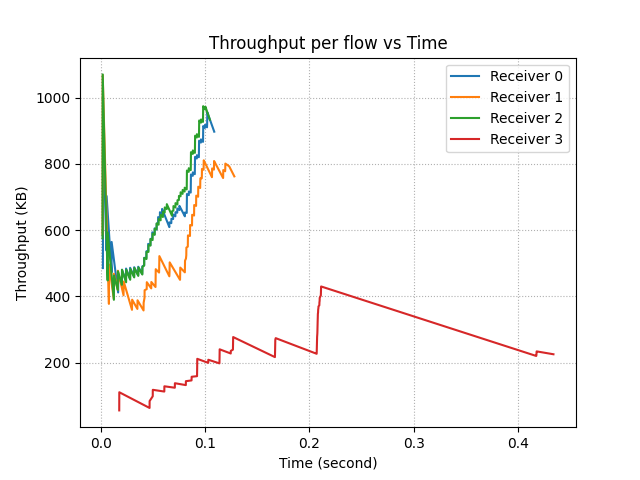
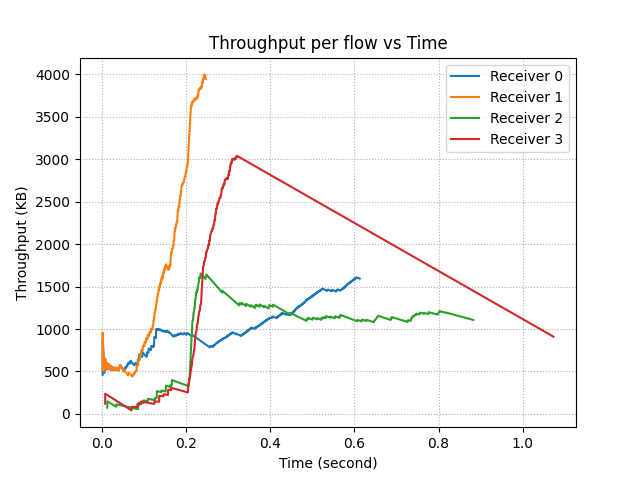
Added descriptions to the evaluation section.

diff --git a/script.py b/script.py
@@ -19,12 +19,12 @@ def q1 ():
   call (["rm", "logger/log_window", "logger/log_tput"])
   call (["netsim", "--bandwidth", "10000", "--latency", "1", "--drop", "0", "--limit", "50"])
   call (["congestiontest", "--size", "large"])
-  #call (["netsim", "--bandwidth", "10000", "--latency", "1", "--drop", "0", "--limit", "10"])
-  #call (["congestiontest", "--size", "large"])
+  call (["netsim", "--bandwidth", "10000", "--latency", "1", "--drop", "0", "--limit", "10"])
+  call (["congestiontest", "--size", "large"])
 
   call (["logger/graph.py", "logger/log_window", "logger/log_tput"])
-  #call (["mv", "output_window_size.png", "logger/config4_buffer_output_window_size.png"])
-  #call (["mv", "output_tput.png", "logger/config4_buffer_output_tput.png"])
+  call (["mv", "output_window_size.png", "logger/config4_buffer_output_window_size.png"])
+  call (["mv", "output_tput.png", "logger/config4_buffer_output_tput.png"])
 
 def q2 ():
   call (["rm", "logger/log_window", "logger/log_tput"])
@@ -53,10 +53,10 @@ def q3 ():
 def q4 ():
   call (["rm", "logger/log_window", "logger/log_tput"])
   call (["netsim", "--bandwidth", "10000", "--latency", "1", "--drop", "0", "--limit", "50"])
-  run (["congestiontest", "--size", "large"])
-  run (["congestiontest", "--size", "large"])
-  run (["congestiontest", "--size", "large"])
-  run (["congestiontest", "--size", "large"])
+  run (["congestiontest", "--size", "huge"])
+  run (["congestiontest", "--size", "huge"])
+  run (["congestiontest", "--size", "huge"])
+  run (["congestiontest", "--size", "huge"])
   sleep (5)
   call (["logger/graph.py", "logger/log_window", "logger/log_tput"])
 
@@ -113,9 +113,9 @@ def main (num):
   #q1 ()
   #q2 ()
   #q3 ()
-  #q4 ()
+  q4 ()
   #q5_1 ()
-  q5_2 ()
+  #q5_2 ()
 
 if __name__ == '__main__':
   if (len (sys.argv) < 2):

diff --git a/cca_evaluation.md b/cca_evaluation.md
@@ -9,61 +9,58 @@ In CP2, we implemented a reliable transport protocol with a fixed window size. H
 To remedy this, we have implemented CCA to adjust window size based on the available bandwidth of the bottleneck link and other senders of the network. 
 
 ## 2. AIMD
-We assumed that a packet gets lost when there is congestion in the network. We considered two cases for lost packet: (1) recevied duplicated ACKs, or (2) timeout occured. Like TCP, we have used AIMD to be conservative for increasing window size, but aggresive for decreaseing window size when cogestion is detected.
+We assumed that a packet gets lost when there is congestion in the network. We considered two cases for lost packets: (1) received duplicated ACKs, or (2) a timeout occurred. Like TCP, we have used AIMD to be conservative for increasing window size, but aggressive for decreasing window size when congestion is detected.
 
     W = W + 1
     if Dup ACKs or timeout
       W = W / 2
 
 ## 3. Slow start
-Like TCP, we implemented the sender to starts with the slow start mode, exponential increase in window size instead of linear increase. Once the sender detects the first packet loss, then it enters the congestion avoidance mode.
+Like TCP, we implemented the sender to start with the slow start mode, exponential increase in window size instead of a linear increase. Once the sender detects the first packet loss, then it enters the congestion avoidance mode.
 
-## 4. Evalution of scenario 4: Data center 
-The following parameters were used to simulate data center: 1ms latency, 10Gbps bandwidth, 0% loss, 50Mb queue. We have used Large file (100KB) for all tests.
+## 4. Evaluation of scenario 4: Datacenter 
+The following parameters were used to simulate the data center: 1ms latency, 10Gbps bandwidth, 0% loss, and 50Mb queue. We have used a large file (100KB) for all tests except the test for multiple sender-receiver pairs which uses a huge file (1MB).
 
 ### - 50Mb vs 10 Mb buffer 
-The sender 0 was tested with 10Mb buffer whereas sender 1 was tested with 50Mb (Figure 1 and 2).
+Sender 0 was tested with a 10Mb buffer whereas sender 1 was tested with 50Mb (Figures 1 and 2). Since there cannot be an issue with overflowing the buffer with a 100KB file, we expected no difference in performance. As expected, the buffer size had minimal impact on the performance in this case.  
 
 <img src="logger/config4_buffer_output_window_size.png" width="300" />
 <img src="logger/config4_buffer_output_tput.png" width="300" />
-Figure 1 and 2.
+<p align="center"> Figure 1 and 2. </p>
 
 ### - 10Gbps and 1ms vs 100Mbps and 1ms vs 10Gbps and 10ms 
-The sender 0 was tested under original data center simulation. On the other hand, the sender 1 was tested with lower bandwidth whereas the sender 2 was tested with longer delay (Figure 3 and 4).
+The sender 0 was tested under the original data center simulation. On the other hand, sender 1 was tested with lower bandwidth whereas sender 2 was tested with a longer delay (Figures 3 and 4). We have observed that changing bandwidth does not affect performance as long as we have a bandwidth greater than 100 KB. On the other hand, we found that higher latency causes lower throughput no matter how large the bandwidth is. One aspect that is lacking in our implementation is the additive increase based on RTT. In general, the sender with greater RTT will increase the size of the window slower than the sender with lesser RTT.
 
 <img src="logger/config4_bandwidth_delay_output_window_size.png" width="300" />
 <img src="logger/config4_bandwidth_delay_output_tput.png" width="300" />
-Figure 3 and 4.
+<p align="center"> Figure 3 and 4. </p>
 
 ### - 0% loss rate vs 10% loss rate
-The sender 0 was tested under original data center simulation. On the other hand, the sender 1 was tested with higher drop rate (Figure 5 and 6).
+The sender 0 was tested under the original data center simulation. On the other hand, sender 1 was tested with a higher drop rate (Figures 5 and 6). Since packet drop usually happens when there is congestion, we can see that CCA has performed as expected. As shown below, our CCA maintains the window size to not to overwhelm the network.
 
 <img src="logger/config4_drop_output_window_size.png" width="300" />
 <img src="logger/config4_drop_output_tput.png" width="300" />
-Figure 5 and 6.
+<p align="center"> Figure 5 and 6. </p>
 
 ### - Four sender-receiver paris sharing same link 
-The sender 0 to 3 was tested under original data center simulation (Figure 7 and 8).
+The sender 0 to 3 was tested under the original data center simulation (Figures 7 and 8) using the same file size. In the figure below, we can see that receiver 2 (green) and receiver 3 (red) start slow, but CCA assigns more window sizes to corresponding senders. As a result, we can see that throughput of receiver 2 and receiver 3 increase rapidly around 0.2 seconds whereas the throughput of receiver 1 (blue) is maintained. Once receivers 2 and 3 have more throughput than the receiver 0, the roles are reversed.
 
 <img src="logger/config4_multipair_output_window_size.png" width="300" />
 <img src="logger/config4_multipair_output_tput.png" width="300" />
-Figure 7 and 8.
+<p align="center"> Figure 7 and 8. </p>
 
 ## 5. CCA performance in other senarios
 ### - 90's Internet 
 <img src="logger/config1_output_window_size.png" width="300" />
 <img src="logger/config1_output_tput.png" width="300" />
-Figure 9 and 10.
+<p align="center"> Figure 9 and 10. </p>
 
 ### - User to CDN 
 <img src="logger/config2_output_window_size.png" width="300" />
 <img src="logger/config2_output_tput.png" width="300" />
-Figure 11 and 12.
+<p align="center"> Figure 11 and 12. </p>
 
 ### - Cross-country
 <img src="logger/config3_output_window_size.png" width="300" />
 <img src="logger/config3_output_tput.png" width="300" />
-Figure 13 and 14.
-
-## 4. Additional notes on fairness
-Each sender may send data at a different rate in practice. For example, consider two senders with different RTTs. The sender with greater RTT will increase the window size slower than the sender with lesser RTT. For another example, one sender may only need to send 1 packet/sec for Pinging whereas another sender needs to send 100 packets/sec for sending a big file. If the network have bottleneck capacity of 2 packets/sec, both senders would send with 1 packet/sec under the current CCA. From these examples, we can see that CCA with AIMD cap the window size without considering different RTTs, loads, etc. So, it is difficult to argue that the current CCA is fair.
+<p align="center"> Figure 13 and 14. </p>
